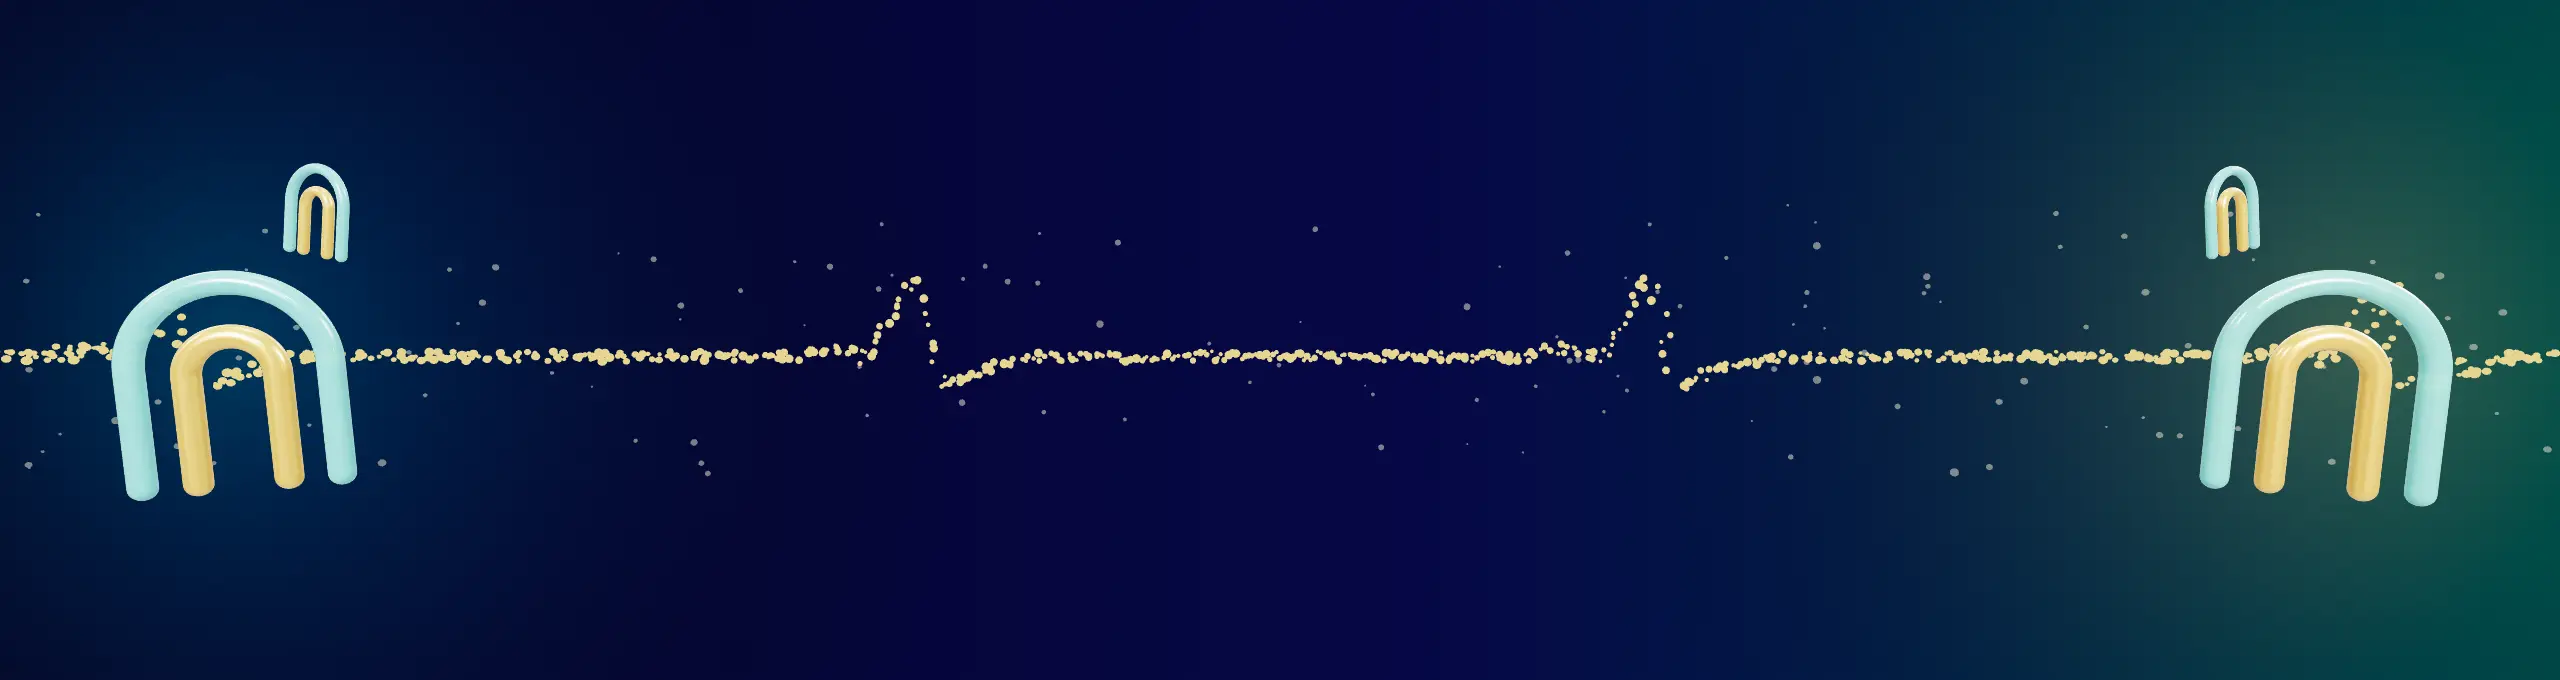
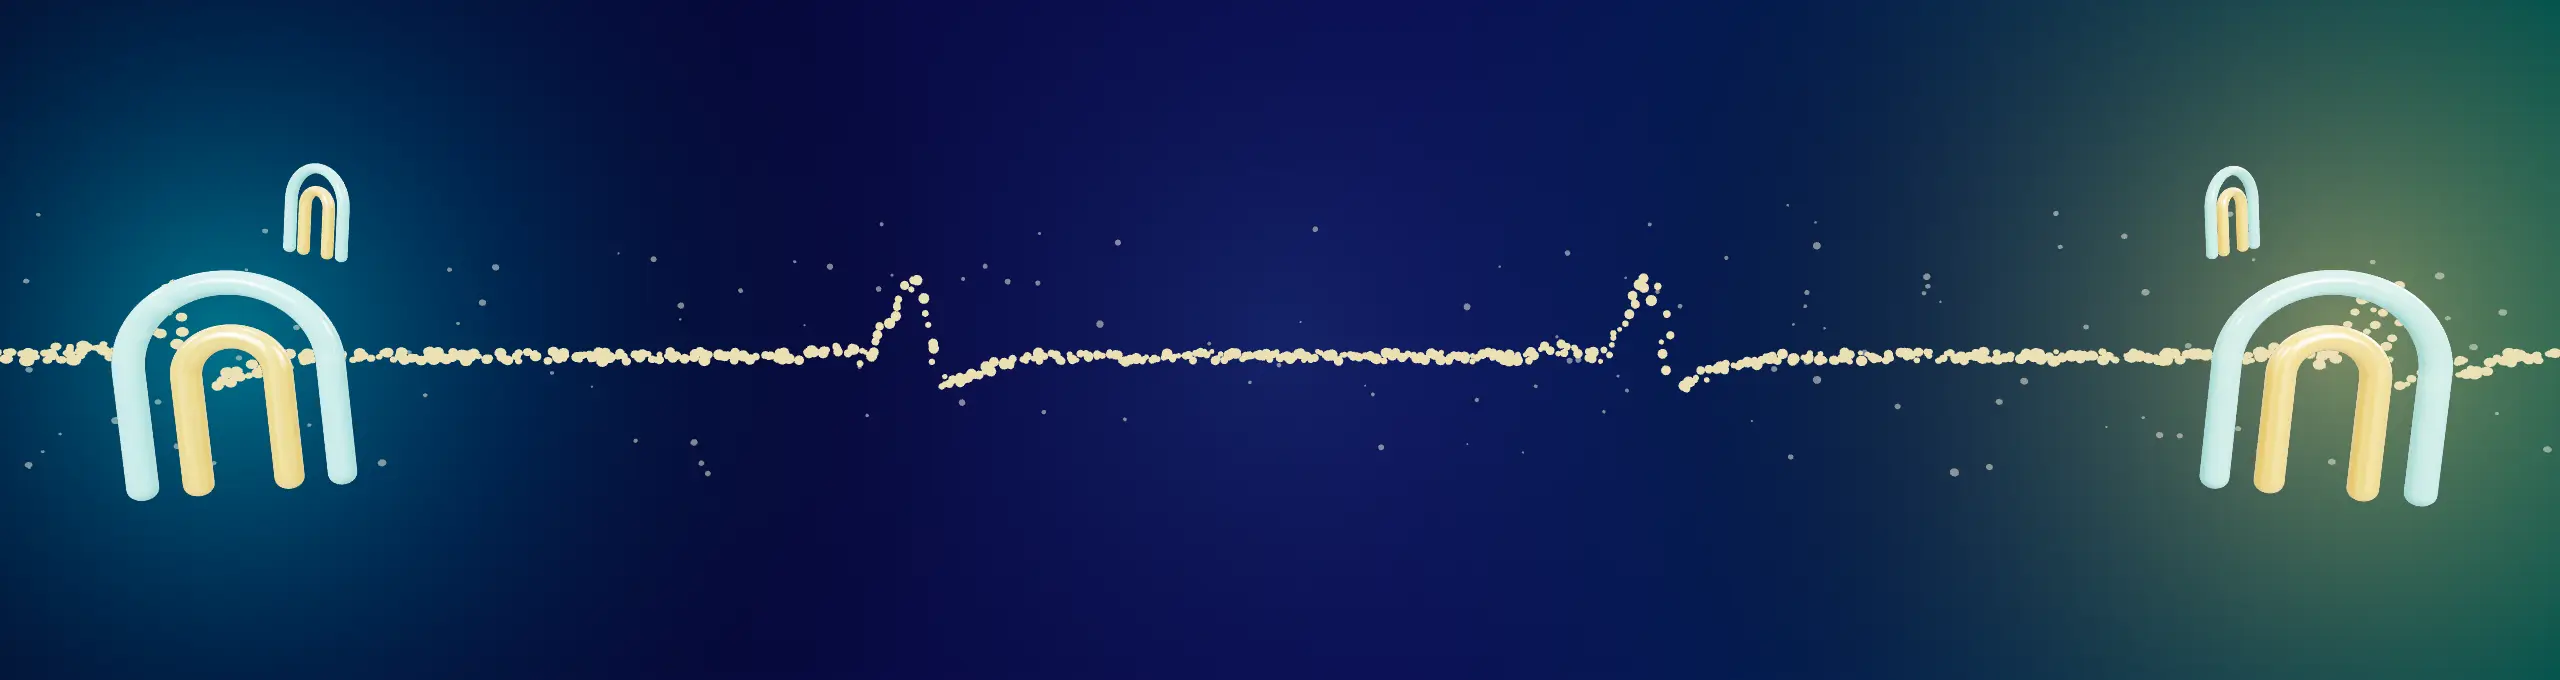
feat: desktop polish and motion (round 11, batch C)
- Request: removed the office numbers (shown again in the footer just below);
  'How it works' steps grow a line and pop in sequence.
- Footer: bottom row with a 911 badge, language help and copyright; shorter
  policy labels; even link rhythm (44 px targets kept).
- Trust band: narrower centred cards, brighter re-rendered 3D art.
- Visits: bolder visit-type tags. Insurance: balanced cards, no repeated line,
  empty plan panel hidden until a confirmed plan list exists.
- Same-ground sections in a row share one gap (the white gaps the owner saw).
- More desktop motion, CSS only, off under reduced motion: cards rise and
  settle, photos ease in from a soft zoom, eyebrow rules draw, hover depth.

diff --git a/workspace/tools/render/trust-band.js b/workspace/tools/render/trust-band.js
@@ -19,11 +19,11 @@ class ArchCurve extends THREE.Curve {
 
 // Satin glass that reads in a software renderer: a little transmission, a coloured glow and a clear coat for the highlights.
 const tealGlass = () => new THREE.MeshPhysicalMaterial({
-  color: 0x6fe3d9, emissive: C.tealDeep, emissiveIntensity: 0.55, metalness: 0.05, roughness: 0.16,
+  color: 0x7ff0e6, emissive: C.tealDeep, emissiveIntensity: 0.9, metalness: 0.05, roughness: 0.16,
   transmission: 0.35, thickness: 0.6, ior: 1.45, clearcoat: 1, clearcoatRoughness: 0.05, iridescence: 0.35, envMapIntensity: 1.6,
 })
 const goldGlass = () => new THREE.MeshPhysicalMaterial({
-  color: C.gold, emissive: 0x7a5410, emissiveIntensity: 0.45, metalness: 0.55, roughness: 0.22, clearcoat: 1, clearcoatRoughness: 0.08, envMapIntensity: 1.8,
+  color: C.gold, emissive: 0x9a6a12, emissiveIntensity: 0.75, metalness: 0.55, roughness: 0.22, clearcoat: 1, clearcoatRoughness: 0.08, envMapIntensity: 1.8,
 })
 
 function doubleArch(scale) {
@@ -47,7 +47,7 @@ function backdrop(scene, w, h) {
   lin.addColorStop(0, '#17123a'); lin.addColorStop(0.55, '#1d1850'); lin.addColorStop(1, '#0c4a50')
   x.fillStyle = lin; x.fillRect(0, 0, 1024, 256)
   const glow = (cx, col) => { const r = x.createRadialGradient(cx, 128, 0, cx, 128, 300); r.addColorStop(0, col); r.addColorStop(1, 'rgba(0,0,0,0)'); x.fillStyle = r; x.fillRect(0, 0, 1024, 256) }
-  glow(90, 'rgba(19,163,160,0.35)'); glow(940, 'rgba(240,194,90,0.22)')
+  glow(90, 'rgba(19,163,160,0.55)'); glow(940, 'rgba(240,194,90,0.38)'); glow(512, 'rgba(95,196,196,0.12)')
   const tex = new THREE.CanvasTexture(c); tex.colorSpace = THREE.SRGBColorSpace
   const plane = new THREE.Mesh(new THREE.PlaneGeometry(w, h), new THREE.MeshBasicMaterial({ map: tex }))
   plane.position.z = -6
@@ -66,14 +66,14 @@ function pulseY(x) {
 
 function heartbeat(scene, span) {
   const count = 900, geo = new THREE.SphereGeometry(1, 10, 8)
-  const mat = new THREE.MeshBasicMaterial({ color: 0xffd36b })
+  const mat = new THREE.MeshBasicMaterial({ color: 0xffdc80 })
   const mesh = new THREE.InstancedMesh(geo, mat, count)
   const m = new THREE.Matrix4(), rnd = mulberry(7)
   for (let i = 0; i < count; i++) {
     const x = -span / 2 + (i / count) * span
     const y = pulseY(x) * 0.55 - 0.2 + (rnd() - 0.5) * 0.12
     const z = -1.5 + (rnd() - 0.5) * 0.6
-    const s = 0.022 + rnd() * 0.034
+    const s = 0.03 + rnd() * 0.04
     m.makeScale(s, s, s).setPosition(x, y, z)
     mesh.setMatrixAt(i, m)
   }
@@ -94,7 +94,7 @@ function mulberry(a) { return () => { a |= 0; a = (a + 0x6d2b79f5) | 0; let t = 
 export async function render(w, h) {
   const renderer = new THREE.WebGLRenderer({ antialias: true, preserveDrawingBuffer: true })
   renderer.setPixelRatio(1); renderer.setSize(w, h)
-  renderer.toneMapping = THREE.ACESFilmicToneMapping; renderer.toneMappingExposure = 1.05
+  renderer.toneMapping = THREE.ACESFilmicToneMapping; renderer.toneMappingExposure = 1.3
   renderer.outputColorSpace = THREE.SRGBColorSpace
   document.body.appendChild(renderer.domElement)
 
@@ -121,8 +121,8 @@ export async function render(w, h) {
     const a = doubleArch(p.s); a.position.set(p.x, p.y, p.z); a.rotation.set(0.08, p.ry, p.rz); scene.add(a)
   }
 
-  const teal = new THREE.PointLight(C.teal, 60, 30); teal.position.set(-9, 3, 5); scene.add(teal)
-  const gold = new THREE.PointLight(C.gold, 55, 30); gold.position.set(9, 2.5, 5); scene.add(gold)
+  const teal = new THREE.PointLight(C.teal, 110, 30); teal.position.set(-9, 3, 5); scene.add(teal)
+  const gold = new THREE.PointLight(C.gold, 100, 30); gold.position.set(9, 2.5, 5); scene.add(gold)
   scene.add(new THREE.AmbientLight(0xffffff, 0.25))
 
   renderer.render(scene, camera)

diff --git a/src/styles/global.css b/src/styles/global.css
@@ -156,3 +156,26 @@ dialog.sheet[open] { opacity: 1; transform: none; transition-duration: var(--m-e
 
 /* Sticky desktop header (80 px): keep focused items and #anchor targets clear of it (WCAG 2.4.11). */
 @media (min-width: 64rem) { html { scroll-padding-top: var(--header-offset); } }
+
+/* Round 11 (owner: 'the distance looks too much' before Doctors and Inside): two sections on the same ground in a row
+   share one gap; the second drops most of its top padding. */
+section[data-tone='white'] + section[data-tone='white'], section[data-tone='cream'] + section[data-tone='cream'] { padding-top: 1rem; }
+
+/* Round 11 (owner: "more motion on desktop so the site feels alive"). Desktop only, CSS only, every effect has a
+   still state and is off under reduced motion (U14.3). Jobs (U14.1): reveals orient the eye in reading order; hover
+   depth shows what is interactive; the eyebrow rule marks each new section. Nothing loops. */
+@media (min-width: 64rem) and (prefers-reduced-motion: no-preference) {
+  /* Cards rise with a slight scale and settle; photos ease in from a soft zoom. */
+  .js :is(.visit-card, .age-card, .ins-feature, .ins-panel, .faq-help, .lift).reveal { transform: translateY(28px) scale(.98); }
+  .js figure.reveal img { transform: scale(1.06); transition: transform 1.2s var(--ease-soft) var(--rd, 0s); }
+  .js figure.reveal.in img { transform: none; }
+  /* Section eyebrow: a short teal rule draws in front of it when its heading reveals. */
+  .eyebrow { position: relative; }
+  .js section:has(h2.reveal) .eyebrow::before { content: ''; position: absolute; inset-inline-start: -1.6rem; inset-block-start: 50%; inline-size: 1.1rem; block-size: 2px; background: currentColor; transform: scaleX(0); transform-origin: right; transition: transform .6s var(--ease-soft) .1s; }
+  .js section:has(h2.reveal.in) .eyebrow::before { transform: scaleX(1); }
+  /* Hover depth on photo tiles (focusable parents only would need a link; these are pointer-only polish). */
+  :is(.inside-tile, .age-card) img { transition: transform .6s var(--ease-soft); }
+  :is(.inside-tile:hover, .age-card:is(:hover, :focus-within)) img { transform: scale(1.04); }
+  /* Icon tiles tilt slightly toward the pointer on card hover. */
+  :is(.visit-card, .age-card, .fact-card, .faq-help):hover :is(.tile, .visit-icon) { transform: rotate(-6deg) scale(1.06); transition: transform .4s cubic-bezier(.34, 1.56, .64, 1); }
+}

diff --git a/src/data/practice.ts b/src/data/practice.ts
@@ -206,10 +206,10 @@ export const weekSummary = (o: Office) => fullWeek(o).reduce<{ from: string; to:
 // Policy set from workspace/02-analysis/legal-and-footer-comparison.md section 5. All DRAFT, verify with counsel.
 export const legalPages = [
   { slug: 'privacy', title: 'Website privacy policy', short: 'Privacy' },
-  { slug: 'notice-of-privacy-practices', title: 'Notice of privacy practices (HIPAA)', short: 'Notice of privacy practices' },
+  { slug: 'notice-of-privacy-practices', title: 'Notice of privacy practices (HIPAA)', short: 'Privacy notice' },
   { slug: 'terms', title: 'Terms of use, medical disclaimer and emergencies', short: 'Terms of use' },
   { slug: 'accessibility', title: 'Accessibility statement', short: 'Accessibility' },
-  { slug: 'nondiscrimination', title: 'Nondiscrimination and language help', short: 'Nondiscrimination and language help' },
+  { slug: 'nondiscrimination', title: 'Nondiscrimination and language help', short: 'Nondiscrimination' },
   { slug: 'patient-rights', title: 'Patient rights and complaints', short: 'Patient rights' },
   { slug: 'billing', title: 'Billing, prices and No Surprises Act notice', short: 'Billing and prices' },
 ] as const

diff --git a/workspace/04-logs/LOG.md b/workspace/04-logs/LOG.md
@@ -112,3 +112,4 @@
 - 2026-11-01 (PC): Inside desktop (plan 4.4): 3-photo mosaic per office (tall first photo left); phone pixel-identical. Review: APPROVE, no findings. All six desktop sections + trust band done -> STOP GATE (owner critique).
 - 2026-11-01 (PC): Full review (Sonnet agent, 9-step plan + thresholds) = FAIL on 1 item (axe serious: trust band <dl> with icon inside dt/dd groups, pre-existing) + 6 fix-level. All fixed on fix/full-review: trust band -> plain list (axe 0 violations at 390 + 1280); Request numbers nowrap; FAQ list no longer stretched by the taller help card (items 74.9 -> 61.5 px); Care dividers aligned, titles fit; band clearance 24rem at 1440; Insurance panel grows so columns end level; shared open-first script (Visits, FAQ, Request); --header-offset token; narrower Inside selector. Phone pixel-identical.
 - 2026-11-01 (PC): Locations desktop fix (from the full review's nice-to-have; owner: 'do that'): hours table overflowed the card at 1024 px -> side by side only from xl (80rem); day labels nowrap; 'Full week and details' one link. Phone pixel-identical.
+- 2026-11-01 (PC): Owner critique round 11 (28 points, phone + desktop): presentation mode (no demo/sample words; nothing invented, unconfirmed hidden), photo map (03-decisions/photo-map.md), shorter copy, phone header/hero/chips/office cards, desktop: Request duplicate numbers removed + steps animate, footer bottom row redesigned, trust band brighter + narrower, visit tags bolder, same-ground sections share one gap, insurance balanced, more desktop motion (CSS, off under reduced motion). Phone baseline to be re-saved after owner approval.
